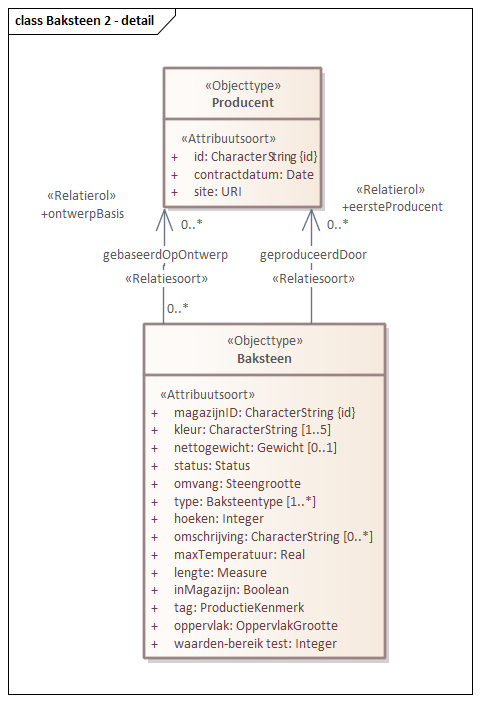
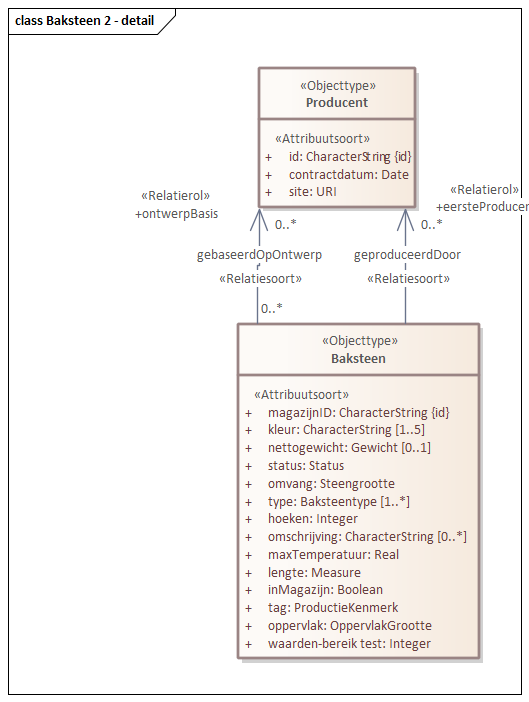
MIMCM-Bakstenenconceptueelmodel-1.0.0-2-20130318-20261017-172123

Changed region(s): [[0.0938, 0.0299, 1.0, 0.9872], [0.0, 0.0, 0.3438, 0.9872]]

diff --git a/data/SAMPLE-cat.respec.full.html b/data/SAMPLE-cat.respec.full.html
@@ -2,7 +2,7 @@
                         var respecConfig = {
                             specStatus: "ED",
                             editors: [{
-                                name: "AdminGeonovum, Geonovum",
+                                name: "unspecified, Geonovum",
                                 url: "http://your.site/",
                             }],
                             edDraftURI: "http://some.place",
@@ -17,7 +17,7 @@
                             Status van dit document ...HIER INVOEGEN
                         </p></section><section id="prologue" class="informative" level="1"><h1>Proloog</h1><p>
                             Introductie ...HIER INVOEGEN
-                        </p></section><section id="cat" class="normative"><h2>Gegevensdefinitie</h2><!--MIMLM-Bakstenenconceptueelmodel-1.0.0-2-20130318-20261003-111207 imvertor Nightly-build.0--><section id="global_packages"><h3>Model   Bakstenen conceptueel model</h3><section id="EAID_08513AA0_8A50_46c1_AD86_9B80D9A6AAE1"><h4>   Model 3 - overzicht</h4><div class="imageinfo overview"><figure class="uml-diagram"><img id="img-EAID_08513AA0_8A50_46c1_AD86_9B80D9A6AAE1" src="data/Images/EAID_08513AA0_8A50_46c1_AD86_9B80D9A6AAE1.png" usemap="#imagemap-EAID_08513AA0_8A50_46c1_AD86_9B80D9A6AAE1" alt="Diagram: Uitleg van dit diagram &#34;Model 3&#34;."><figcaption> ‒ Diagram: Model 3</figcaption></figure><map name="imagemap-EAID_08513AA0_8A50_46c1_AD86_9B80D9A6AAE1"><area shape="rect" alt="Accountmanager" coords="1101,387,1307,527" href="#global_class_Contract_Accountmanager"><area shape="rect" alt="ExterneProducent" coords="540,360,725,428" href="#global_class_Baksteenproductie_ExterneProducent"><area shape="rect" alt="Baksteen" coords="48,86,326,305" href="#global_class_Baksteenproductie_Baksteen"><area shape="rect" alt="Producent" coords="540,100,725,298" href="#global_class_Baksteenproductie_Producent"><area shape="rect" alt="Deal" coords="1088,86,1300,181" href="#global_class_Contract_Deal"><area shape="rect" alt="Contract" coords="1348,250,1532,332" href="#global_class_Contract_Contract"><area shape="rect" alt="Client" coords="828,223,1070,319" href="#global_class_Contract_Client"></map><p>
+                        </p></section><section id="cat" class="normative"><h2>Gegevensdefinitie</h2><!--MIMCM-Bakstenenconceptueelmodel-1.0.0-2-20130318-20261017-172123 imvertor Nightly-build.0--><section id="global_packages"><h3>Model   Bakstenen conceptueel model</h3><section id="EAID_08513AA0_8A50_46c1_AD86_9B80D9A6AAE1"><h4>   Model 3 - overzicht</h4><div class="imageinfo overview"><figure class="uml-diagram"><img id="img-EAID_08513AA0_8A50_46c1_AD86_9B80D9A6AAE1" src="data/Images/EAID_08513AA0_8A50_46c1_AD86_9B80D9A6AAE1.png" usemap="#imagemap-EAID_08513AA0_8A50_46c1_AD86_9B80D9A6AAE1" alt="Diagram: Uitleg van dit diagram &#34;Model 3&#34;."><figcaption> ‒ Diagram: Model 3</figcaption></figure><map name="imagemap-EAID_08513AA0_8A50_46c1_AD86_9B80D9A6AAE1"><area shape="rect" alt="Accountmanager" coords="1101,395,1307,535" href="#global_class_Contract_Accountmanager"><area shape="rect" alt="ExterneProducent" coords="540,368,725,436" href="#global_class_Baksteenproductie_ExterneProducent"><area shape="rect" alt="Baksteen" coords="48,94,326,313" href="#global_class_Baksteenproductie_Baksteen"><area shape="rect" alt="Producent" coords="540,108,725,306" href="#global_class_Baksteenproductie_Producent"><area shape="rect" alt="Deal" coords="1088,94,1300,189" href="#global_class_Contract_Deal"><area shape="rect" alt="Contract" coords="1348,259,1532,341" href="#global_class_Contract_Contract"><area shape="rect" alt="Client" coords="828,231,1070,327" href="#global_class_Contract_Client"></map><p>
                         <p>Uitleg van dit diagram "<i>Model 3</i>".</p>
                         <p></p>
                         <p></p>
@@ -27,7 +27,7 @@
                         <p></p>
                      </p></div></section><section><h4>Objecttypen   </h4>
             <section id="global_class_Baksteenproductie_Baksteen"><h5>   Baksteen</h5>
-               <section id="EAID_EB759E5B_3FAA_4064_A73E_704926072F89"><h6>   Baksteen 2 - detail</h6><div class="imageinfo "><figure class="uml-diagram"><img id="img-EAID_EB759E5B_3FAA_4064_A73E_704926072F89" src="data/Images/EAID_EB759E5B_3FAA_4064_A73E_704926072F89.png" usemap="#imagemap-EAID_EB759E5B_3FAA_4064_A73E_704926072F89" alt="Diagram: Uitleg van dit diagram &#34;Baksteen 2&#34;."><figcaption> ‒ Diagram: Baksteen 2</figcaption></figure><map name="imagemap-EAID_EB759E5B_3FAA_4064_A73E_704926072F89"><area shape="rect" alt="Producent" coords="164,68,322,208" href="#global_class_Baksteenproductie_Producent"><area shape="rect" alt="Baksteen" coords="144,324,386,659" href="#global_class_Baksteenproductie_Baksteen"></map><p>
+               <section id="EAID_EB759E5B_3FAA_4064_A73E_704926072F89"><h6>   Baksteen 2 - detail</h6><div class="imageinfo "><figure class="uml-diagram"><img id="img-EAID_EB759E5B_3FAA_4064_A73E_704926072F89" src="data/Images/EAID_EB759E5B_3FAA_4064_A73E_704926072F89.png" usemap="#imagemap-EAID_EB759E5B_3FAA_4064_A73E_704926072F89" alt="Diagram: Uitleg van dit diagram &#34;Baksteen 2&#34;."><figcaption> ‒ Diagram: Baksteen 2</figcaption></figure><map name="imagemap-EAID_EB759E5B_3FAA_4064_A73E_704926072F89"><area shape="rect" alt="Producent" coords="259,68,416,208" href="#global_class_Baksteenproductie_Producent"><area shape="rect" alt="Baksteen" coords="238,324,480,659" href="#global_class_Baksteenproductie_Baksteen"></map><p>
                               <p>Uitleg van dit diagram "<i>Baksteen 2</i>".</p>
                               <p></p>
                               <p></p>
@@ -73,7 +73,7 @@
                         </td></tr></tbody></table>
                
                <h6>Overzicht constraints  </h6>
-                  <table style="width: 100%;"><colgroup style="width: 30%;"></colgroup><colgroup style="width: 70%;"></colgroup><tbody><tr><th scope="col">Naam</th><th scope="col">Uitleg</th></tr><tr><th scope="row"><a class="link" href="#detail_d22357e2583">
+                  <table style="width: 100%;"><colgroup style="width: 30%;"></colgroup><colgroup style="width: 70%;"></colgroup><tbody><tr><th scope="col">Naam</th><th scope="col">Uitleg</th></tr><tr><th scope="row"><a class="link" href="#detail_d22351e2583">
                               baksteen-constraint
                            </a></th><td></td></tr></tbody></table>
                
@@ -280,7 +280,7 @@
                                     <p>De eerste producent is de maker die als eerste met de baksteen op de markt is gekomen, en de steen nog levert.</p>
                                  </td></tr><tr><th scope="row">Herkomst definitie</th><td> </td></tr><tr><th scope="row">Datum opname</th><td> </td></tr><tr><th scope="row">Gerelateerd objecttype</th><td><a class="link" href="#global_class_Baksteenproductie_Producent">Producent</a></td></tr><tr><th scope="row">Kardinaliteit</th><td>0 .. *</td></tr><tr><th scope="row">Indicatie kardinaliteit bron</th><td>1</td></tr><tr><th scope="row">Indicatie authentiek</th><td>  </td></tr><tr><th scope="row">Mogelijk geen waarde</th><td>Nee</td></tr></tbody></table>
                   </div>
-                  <div class="deepheader" id="detail_d22357e2583"><strong>Constraint details  <a href="#global_class_Baksteenproductie_Baksteen">Baksteen</a> baksteen-constraint</strong>
+                  <div class="deepheader" id="detail_d22351e2583"><strong>Constraint details  <a href="#global_class_Baksteenproductie_Baksteen">Baksteen</a> baksteen-constraint</strong>
                      <table style="width: 100%;"><colgroup style="width: 30%;"></colgroup><colgroup style="width: 70%;"></colgroup><tbody><tr><th scope="row">OCL</th><td>Constraint op objecttype Baksteen.</td></tr></tbody></table>
                   </div>
                </section>
@@ -393,7 +393,7 @@
                   <table style="width: 100%;"><colgroup style="width: 50%;"></colgroup><colgroup style="width: 50%;"></colgroup><tbody><tr><th scope="col">Rol naam met kardinaliteiten</th><th scope="col">Definitie</th></tr><tr><td>Contract [ 1 ] <a class="link" href="#detail_association_Contract_Contract_adres2rol">adres1relatie: adres2rol</a> <a class="link" href="#global_class_Contract_Adres">Adres</a> [ 1 ]</td><td></td></tr></tbody></table>
                
                <h6>Overzicht constraints  </h6>
-                  <table style="width: 100%;"><colgroup style="width: 30%;"></colgroup><colgroup style="width: 70%;"></colgroup><tbody><tr><th scope="col">Naam</th><th scope="col">Uitleg</th></tr><tr><th scope="row"><a class="link" href="#detail_d22357e6543">
+                  <table style="width: 100%;"><colgroup style="width: 30%;"></colgroup><colgroup style="width: 70%;"></colgroup><tbody><tr><th scope="col">Naam</th><th scope="col">Uitleg</th></tr><tr><th scope="row"><a class="link" href="#detail_d22351e6543">
                               constraint1
                            </a></th><td> commentaar </td></tr></tbody></table>
                
@@ -423,7 +423,7 @@
                         </td><td>DAY</td><td>1</td></tr></tbody></table>
                
                <h6>Overzicht constraints  </h6>
-                  <table style="width: 100%;"><colgroup style="width: 30%;"></colgroup><colgroup style="width: 70%;"></colgroup><tbody><tr><th scope="col">Naam</th><th scope="col">Uitleg</th></tr><tr><th scope="row"><a class="link" href="#detail_d22357e7087">
+                  <table style="width: 100%;"><colgroup style="width: 30%;"></colgroup><colgroup style="width: 70%;"></colgroup><tbody><tr><th scope="col">Naam</th><th scope="col">Uitleg</th></tr><tr><th scope="row"><a class="link" href="#detail_d22351e7087">
                               constraint-relatieklasse
                            </a></th><td></td></tr></tbody></table>
                
@@ -449,7 +449,7 @@
                   <table style="width: 100%;"><colgroup style="width: 50%;"></colgroup><colgroup style="width: 50%;"></colgroup><tbody><tr><th scope="col">Rol naam met kardinaliteiten</th><th scope="col">Definitie</th></tr><tr><td>Accountmanager [ 1 ] <a class="link" href="#detail_association_Contract_Accountmanager_adres2rol">adres2relatie: adres2rol</a> <a class="link" href="#global_class_Contract_Adres">Adres</a> [ 1 ]</td><td></td></tr></tbody></table>
                
                <h6>Overzicht constraints  </h6>
-                  <table style="width: 100%;"><colgroup style="width: 30%;"></colgroup><colgroup style="width: 70%;"></colgroup><tbody><tr><th scope="col">Naam</th><th scope="col">Uitleg</th></tr><tr><th scope="row"><a class="link" href="#detail_d22357e5644">
+                  <table style="width: 100%;"><colgroup style="width: 30%;"></colgroup><colgroup style="width: 70%;"></colgroup><tbody><tr><th scope="col">Naam</th><th scope="col">Uitleg</th></tr><tr><th scope="row"><a class="link" href="#detail_d22351e5644">
                               Gegevensgroeptype-constraint
                            </a></th><td></td></tr></tbody></table>
                
@@ -477,7 +477,7 @@
                      
                      <table style="width: 100%;"><colgroup style="width: 30%;"></colgroup><colgroup style="width: 70%;"></colgroup><tbody><tr><th scope="row">Naam</th><td>adres1relatie</td></tr><tr><th scope="row">Herkomst</th><td> </td></tr><tr><th scope="row">Definitie</th><td> </td></tr><tr><th scope="row">Herkomst definitie</th><td> </td></tr><tr><th scope="row">Datum opname</th><td> </td></tr><tr><th scope="row">Gerelateerd objecttype</th><td><a class="link" href="#global_class_Contract_Adres">Adres</a></td></tr><tr><th scope="row">Kardinaliteit</th><td>1</td></tr><tr><th scope="row">Indicatie kardinaliteit bron</th><td>1</td></tr><tr><th scope="row">Indicatie authentiek</th><td>Authentiek</td></tr><tr><th scope="row">Mogelijk geen waarde</th><td>Nee</td></tr></tbody></table>
                   </div>
-                  <div class="deepheader" id="detail_d22357e6543"><strong>Constraint details  <a href="#global_class_Contract_Contract">Contract</a> constraint1</strong>
+                  <div class="deepheader" id="detail_d22351e6543"><strong>Constraint details  <a href="#global_class_Contract_Contract">Contract</a> constraint1</strong>
                      <table style="width: 100%;"><colgroup style="width: 30%;"></colgroup><colgroup style="width: 70%;"></colgroup><tbody><tr><th scope="row">Natuurlijke taal</th><td> commentaar </td></tr><tr><th scope="row">OCL</th><td> OCL of beschrijving van constraint1</td></tr></tbody></table>
                   </div>
                </section>
@@ -499,7 +499,7 @@
                      
                      <table style="width: 100%;"><colgroup style="width: 30%;"></colgroup><colgroup style="width: 70%;"></colgroup><tbody><tr><th scope="row">Naam</th><td>adres2relatie</td></tr><tr><th scope="row">Herkomst</th><td> </td></tr><tr><th scope="row">Definitie</th><td> </td></tr><tr><th scope="row">Herkomst definitie</th><td> </td></tr><tr><th scope="row">Datum opname</th><td> </td></tr><tr><th scope="row">Gerelateerd objecttype</th><td><a class="link" href="#global_class_Contract_Adres">Adres</a></td></tr><tr><th scope="row">Kardinaliteit</th><td>1</td></tr><tr><th scope="row">Indicatie kardinaliteit bron</th><td>1</td></tr><tr><th scope="row">Indicatie authentiek</th><td>Authentiek</td></tr><tr><th scope="row">Mogelijk geen waarde</th><td>Nee</td></tr></tbody></table>
                   </div>
-                  <div class="deepheader" id="detail_d22357e5644"><strong>Constraint details  <a href="#global_class_Contract_Accountmanager">Accountmanager</a> Gegevensgroeptype-constraint</strong>
+                  <div class="deepheader" id="detail_d22351e5644"><strong>Constraint details  <a href="#global_class_Contract_Accountmanager">Accountmanager</a> Gegevensgroeptype-constraint</strong>
                      <table style="width: 100%;"><colgroup style="width: 30%;"></colgroup><colgroup style="width: 70%;"></colgroup><tbody><tr><th scope="row">OCL</th><td>Constraint op gegevesngroeptype Accountmanager.</td></tr></tbody></table>
                   </div>
                </section>
@@ -526,7 +526,7 @@
                                     <p>De eerstvolgende dag dat voor de client een feest is.</p>
                                  </td></tr><tr><th scope="row">Herkomst definitie</th><td> </td></tr><tr><th scope="row">Datum opname</th><td> </td></tr><tr><th scope="row">Formaat</th><td>DAY</td></tr><tr><th scope="row">Patroon</th><td>De verzameling van waarden die gegevens van deze attribuutsoort kunnen hebben (bereik)  danwel moeten voldoen aan een specifiek patroon.</td></tr><tr><th scope="row">Kardinaliteit</th><td>1</td></tr><tr><th scope="row">Indicatie authentiek</th><td>  </td></tr><tr><th scope="row">Toelichting</th><td>Een inhoudelijke toelichting op de attribuutsoort.</td></tr><tr><th scope="row">Indicatie afleidbaar</th><td>Zie package</td></tr><tr><th scope="row">Indicatie classificerend</th><td> </td></tr><tr><th scope="row">Mogelijk geen waarde</th><td>Nee</td></tr><tr><th scope="row">Indicatie identificerend</th><td>Nee</td></tr></tbody></table>
                   </div>
-                  <div class="deepheader" id="detail_d22357e7087"><strong>Constraint details  <a href="#global_class_Contract_Deal">Deal</a> constraint-relatieklasse</strong>
+                  <div class="deepheader" id="detail_d22351e7087"><strong>Constraint details  <a href="#global_class_Contract_Deal">Deal</a> constraint-relatieklasse</strong>
                      <table style="width: 100%;"><colgroup style="width: 30%;"></colgroup><colgroup style="width: 70%;"></colgroup><tbody><tr><th scope="row">OCL</th><td>Constraint op relatieklasse Deal.</td></tr></tbody></table>
                   </div>
                </section>
@@ -534,7 +534,7 @@
             
             
             
-         </section></section></section><section id="lis" class="normative"><h2>Inhoud van waardelijsten</h2><!--MIMLM-Bakstenenconceptueelmodel-1.0.0-2-20130318-20261003-111207 imvertor Nightly-build.0--><section><h3>Referentielijst inhoud   </h3><section id="detail_class_Baksteenproductie_Baksteentype"><h4>Referentielijst  Baksteentype</h4>
+         </section></section></section><section id="lis" class="normative"><h2>Inhoud van waardelijsten</h2><!--MIMCM-Bakstenenconceptueelmodel-1.0.0-2-20130318-20261017-172123 imvertor Nightly-build.0--><section><h3>Referentielijst inhoud   </h3><section id="detail_class_Baksteenproductie_Baksteentype"><h4>Referentielijst  Baksteentype</h4>
             <table style="width: 100%;" class="list"><colgroup></colgroup><tbody><tr><td>
                         <p>Type van baksteen.</p>
                       

diff --git a/data/SAMPLE-cat.respec.html b/data/SAMPLE-cat.respec.html
@@ -1,4 +1,4 @@
-<!DOCTYPE HTML><section id="cat" class="normative"><h2>Gegevensdefinitie</h2><!--MIMLM-Bakstenenconceptueelmodel-1.0.0-2-20130318-20261003-111207 imvertor Nightly-build.0--><section id="global_packages"><h3>Model   Bakstenen conceptueel model</h3><section id="EAID_08513AA0_8A50_46c1_AD86_9B80D9A6AAE1"><h4>   Model 3 - overzicht</h4><div class="imageinfo overview"><figure class="uml-diagram"><img id="img-EAID_08513AA0_8A50_46c1_AD86_9B80D9A6AAE1" src="data/Images/EAID_08513AA0_8A50_46c1_AD86_9B80D9A6AAE1.png" usemap="#imagemap-EAID_08513AA0_8A50_46c1_AD86_9B80D9A6AAE1" alt="Diagram: Uitleg van dit diagram &#34;Model 3&#34;."><figcaption> ‒ Diagram: Model 3</figcaption></figure><map name="imagemap-EAID_08513AA0_8A50_46c1_AD86_9B80D9A6AAE1"><area shape="rect" alt="Accountmanager" coords="1101,387,1307,527" href="#global_class_Contract_Accountmanager"><area shape="rect" alt="ExterneProducent" coords="540,360,725,428" href="#global_class_Baksteenproductie_ExterneProducent"><area shape="rect" alt="Baksteen" coords="48,86,326,305" href="#global_class_Baksteenproductie_Baksteen"><area shape="rect" alt="Producent" coords="540,100,725,298" href="#global_class_Baksteenproductie_Producent"><area shape="rect" alt="Deal" coords="1088,86,1300,181" href="#global_class_Contract_Deal"><area shape="rect" alt="Contract" coords="1348,250,1532,332" href="#global_class_Contract_Contract"><area shape="rect" alt="Client" coords="828,223,1070,319" href="#global_class_Contract_Client"></map><p>
+<!DOCTYPE HTML><section id="cat" class="normative"><h2>Gegevensdefinitie</h2><!--MIMCM-Bakstenenconceptueelmodel-1.0.0-2-20130318-20261017-172123 imvertor Nightly-build.0--><section id="global_packages"><h3>Model   Bakstenen conceptueel model</h3><section id="EAID_08513AA0_8A50_46c1_AD86_9B80D9A6AAE1"><h4>   Model 3 - overzicht</h4><div class="imageinfo overview"><figure class="uml-diagram"><img id="img-EAID_08513AA0_8A50_46c1_AD86_9B80D9A6AAE1" src="data/Images/EAID_08513AA0_8A50_46c1_AD86_9B80D9A6AAE1.png" usemap="#imagemap-EAID_08513AA0_8A50_46c1_AD86_9B80D9A6AAE1" alt="Diagram: Uitleg van dit diagram &#34;Model 3&#34;."><figcaption> ‒ Diagram: Model 3</figcaption></figure><map name="imagemap-EAID_08513AA0_8A50_46c1_AD86_9B80D9A6AAE1"><area shape="rect" alt="Accountmanager" coords="1101,395,1307,535" href="#global_class_Contract_Accountmanager"><area shape="rect" alt="ExterneProducent" coords="540,368,725,436" href="#global_class_Baksteenproductie_ExterneProducent"><area shape="rect" alt="Baksteen" coords="48,94,326,313" href="#global_class_Baksteenproductie_Baksteen"><area shape="rect" alt="Producent" coords="540,108,725,306" href="#global_class_Baksteenproductie_Producent"><area shape="rect" alt="Deal" coords="1088,94,1300,189" href="#global_class_Contract_Deal"><area shape="rect" alt="Contract" coords="1348,259,1532,341" href="#global_class_Contract_Contract"><area shape="rect" alt="Client" coords="828,231,1070,327" href="#global_class_Contract_Client"></map><p>
                         <p>Uitleg van dit diagram "<i>Model 3</i>".</p>
                         <p></p>
                         <p></p>
@@ -8,7 +8,7 @@
                         <p></p>
                      </p></div></section><section><h4>Objecttypen   </h4>
             <section id="global_class_Baksteenproductie_Baksteen"><h5>   Baksteen</h5>
-               <section id="EAID_EB759E5B_3FAA_4064_A73E_704926072F89"><h6>   Baksteen 2 - detail</h6><div class="imageinfo "><figure class="uml-diagram"><img id="img-EAID_EB759E5B_3FAA_4064_A73E_704926072F89" src="data/Images/EAID_EB759E5B_3FAA_4064_A73E_704926072F89.png" usemap="#imagemap-EAID_EB759E5B_3FAA_4064_A73E_704926072F89" alt="Diagram: Uitleg van dit diagram &#34;Baksteen 2&#34;."><figcaption> ‒ Diagram: Baksteen 2</figcaption></figure><map name="imagemap-EAID_EB759E5B_3FAA_4064_A73E_704926072F89"><area shape="rect" alt="Producent" coords="164,68,322,208" href="#global_class_Baksteenproductie_Producent"><area shape="rect" alt="Baksteen" coords="144,324,386,659" href="#global_class_Baksteenproductie_Baksteen"></map><p>
+               <section id="EAID_EB759E5B_3FAA_4064_A73E_704926072F89"><h6>   Baksteen 2 - detail</h6><div class="imageinfo "><figure class="uml-diagram"><img id="img-EAID_EB759E5B_3FAA_4064_A73E_704926072F89" src="data/Images/EAID_EB759E5B_3FAA_4064_A73E_704926072F89.png" usemap="#imagemap-EAID_EB759E5B_3FAA_4064_A73E_704926072F89" alt="Diagram: Uitleg van dit diagram &#34;Baksteen 2&#34;."><figcaption> ‒ Diagram: Baksteen 2</figcaption></figure><map name="imagemap-EAID_EB759E5B_3FAA_4064_A73E_704926072F89"><area shape="rect" alt="Producent" coords="259,68,416,208" href="#global_class_Baksteenproductie_Producent"><area shape="rect" alt="Baksteen" coords="238,324,480,659" href="#global_class_Baksteenproductie_Baksteen"></map><p>
                               <p>Uitleg van dit diagram "<i>Baksteen 2</i>".</p>
                               <p></p>
                               <p></p>
@@ -54,7 +54,7 @@
                         </td></tr></tbody></table>
                
                <h6>Overzicht constraints  </h6>
-                  <table style="width: 100%;"><colgroup style="width: 30%;"></colgroup><colgroup style="width: 70%;"></colgroup><tbody><tr><th scope="col">Naam</th><th scope="col">Uitleg</th></tr><tr><th scope="row"><a class="link" href="#detail_d22357e2583">
+                  <table style="width: 100%;"><colgroup style="width: 30%;"></colgroup><colgroup style="width: 70%;"></colgroup><tbody><tr><th scope="col">Naam</th><th scope="col">Uitleg</th></tr><tr><th scope="row"><a class="link" href="#detail_d22351e2583">
                               baksteen-constraint
                            </a></th><td></td></tr></tbody></table>
                
@@ -261,7 +261,7 @@
                                     <p>De eerste producent is de maker die als eerste met de baksteen op de markt is gekomen, en de steen nog levert.</p>
                                  </td></tr><tr><th scope="row">Herkomst definitie</th><td> </td></tr><tr><th scope="row">Datum opname</th><td> </td></tr><tr><th scope="row">Gerelateerd objecttype</th><td><a class="link" href="#global_class_Baksteenproductie_Producent">Producent</a></td></tr><tr><th scope="row">Kardinaliteit</th><td>0 .. *</td></tr><tr><th scope="row">Indicatie kardinaliteit bron</th><td>1</td></tr><tr><th scope="row">Indicatie authentiek</th><td>  </td></tr><tr><th scope="row">Mogelijk geen waarde</th><td>Nee</td></tr></tbody></table>
                   </div>
-                  <div class="deepheader" id="detail_d22357e2583"><strong>Constraint details  <a href="#global_class_Baksteenproductie_Baksteen">Baksteen</a> baksteen-constraint</strong>
+                  <div class="deepheader" id="detail_d22351e2583"><strong>Constraint details  <a href="#global_class_Baksteenproductie_Baksteen">Baksteen</a> baksteen-constraint</strong>
                      <table style="width: 100%;"><colgroup style="width: 30%;"></colgroup><colgroup style="width: 70%;"></colgroup><tbody><tr><th scope="row">OCL</th><td>Constraint op objecttype Baksteen.</td></tr></tbody></table>
                   </div>
                </section>
@@ -374,7 +374,7 @@
                   <table style="width: 100%;"><colgroup style="width: 50%;"></colgroup><colgroup style="width: 50%;"></colgroup><tbody><tr><th scope="col">Rol naam met kardinaliteiten</th><th scope="col">Definitie</th></tr><tr><td>Contract [ 1 ] <a class="link" href="#detail_association_Contract_Contract_adres2rol">adres1relatie: adres2rol</a> <a class="link" href="#global_class_Contract_Adres">Adres</a> [ 1 ]</td><td></td></tr></tbody></table>
                
                <h6>Overzicht constraints  </h6>
-                  <table style="width: 100%;"><colgroup style="width: 30%;"></colgroup><colgroup style="width: 70%;"></colgroup><tbody><tr><th scope="col">Naam</th><th scope="col">Uitleg</th></tr><tr><th scope="row"><a class="link" href="#detail_d22357e6543">
+                  <table style="width: 100%;"><colgroup style="width: 30%;"></colgroup><colgroup style="width: 70%;"></colgroup><tbody><tr><th scope="col">Naam</th><th scope="col">Uitleg</th></tr><tr><th scope="row"><a class="link" href="#detail_d22351e6543">
                               constraint1
                            </a></th><td> commentaar </td></tr></tbody></table>
                
@@ -404,7 +404,7 @@
                         </td><td>DAY</td><td>1</td></tr></tbody></table>
                
                <h6>Overzicht constraints  </h6>
-                  <table style="width: 100%;"><colgroup style="width: 30%;"></colgroup><colgroup style="width: 70%;"></colgroup><tbody><tr><th scope="col">Naam</th><th scope="col">Uitleg</th></tr><tr><th scope="row"><a class="link" href="#detail_d22357e7087">
+                  <table style="width: 100%;"><colgroup style="width: 30%;"></colgroup><colgroup style="width: 70%;"></colgroup><tbody><tr><th scope="col">Naam</th><th scope="col">Uitleg</th></tr><tr><th scope="row"><a class="link" href="#detail_d22351e7087">
                               constraint-relatieklasse
                            </a></th><td></td></tr></tbody></table>
                
@@ -430,7 +430,7 @@
                   <table style="width: 100%;"><colgroup style="width: 50%;"></colgroup><colgroup style="width: 50%;"></colgroup><tbody><tr><th scope="col">Rol naam met kardinaliteiten</th><th scope="col">Definitie</th></tr><tr><td>Accountmanager [ 1 ] <a class="link" href="#detail_association_Contract_Accountmanager_adres2rol">adres2relatie: adres2rol</a> <a class="link" href="#global_class_Contract_Adres">Adres</a> [ 1 ]</td><td></td></tr></tbody></table>
                
                <h6>Overzicht constraints  </h6>
-                  <table style="width: 100%;"><colgroup style="width: 30%;"></colgroup><colgroup style="width: 70%;"></colgroup><tbody><tr><th scope="col">Naam</th><th scope="col">Uitleg</th></tr><tr><th scope="row"><a class="link" href="#detail_d22357e5644">
+                  <table style="width: 100%;"><colgroup style="width: 30%;"></colgroup><colgroup style="width: 70%;"></colgroup><tbody><tr><th scope="col">Naam</th><th scope="col">Uitleg</th></tr><tr><th scope="row"><a class="link" href="#detail_d22351e5644">
                               Gegevensgroeptype-constraint
                            </a></th><td></td></tr></tbody></table>
                
@@ -458,7 +458,7 @@
                      
                      <table style="width: 100%;"><colgroup style="width: 30%;"></colgroup><colgroup style="width: 70%;"></colgroup><tbody><tr><th scope="row">Naam</th><td>adres1relatie</td></tr><tr><th scope="row">Herkomst</th><td> </td></tr><tr><th scope="row">Definitie</th><td> </td></tr><tr><th scope="row">Herkomst definitie</th><td> </td></tr><tr><th scope="row">Datum opname</th><td> </td></tr><tr><th scope="row">Gerelateerd objecttype</th><td><a class="link" href="#global_class_Contract_Adres">Adres</a></td></tr><tr><th scope="row">Kardinaliteit</th><td>1</td></tr><tr><th scope="row">Indicatie kardinaliteit bron</th><td>1</td></tr><tr><th scope="row">Indicatie authentiek</th><td>Authentiek</td></tr><tr><th scope="row">Mogelijk geen waarde</th><td>Nee</td></tr></tbody></table>
                   </div>
-                  <div class="deepheader" id="detail_d22357e6543"><strong>Constraint details  <a href="#global_class_Contract_Contract">Contract</a> constraint1</strong>
+                  <div class="deepheader" id="detail_d22351e6543"><strong>Constraint details  <a href="#global_class_Contract_Contract">Contract</a> constraint1</strong>
                      <table style="width: 100%;"><colgroup style="width: 30%;"></colgroup><colgroup style="width: 70%;"></colgroup><tbody><tr><th scope="row">Natuurlijke taal</th><td> commentaar </td></tr><tr><th scope="row">OCL</th><td> OCL of beschrijving van constraint1</td></tr></tbody></table>
                   </div>
                </section>
@@ -480,7 +480,7 @@
                      
                      <table style="width: 100%;"><colgroup style="width: 30%;"></colgroup><colgroup style="width: 70%;"></colgroup><tbody><tr><th scope="row">Naam</th><td>adres2relatie</td></tr><tr><th scope="row">Herkomst</th><td> </td></tr><tr><th scope="row">Definitie</th><td> </td></tr><tr><th scope="row">Herkomst definitie</th><td> </td></tr><tr><th scope="row">Datum opname</th><td> </td></tr><tr><th scope="row">Gerelateerd objecttype</th><td><a class="link" href="#global_class_Contract_Adres">Adres</a></td></tr><tr><th scope="row">Kardinaliteit</th><td>1</td></tr><tr><th scope="row">Indicatie kardinaliteit bron</th><td>1</td></tr><tr><th scope="row">Indicatie authentiek</th><td>Authentiek</td></tr><tr><th scope="row">Mogelijk geen waarde</th><td>Nee</td></tr></tbody></table>
                   </div>
-                  <div class="deepheader" id="detail_d22357e5644"><strong>Constraint details  <a href="#global_class_Contract_Accountmanager">Accountmanager</a> Gegevensgroeptype-constraint</strong>
+                  <div class="deepheader" id="detail_d22351e5644"><strong>Constraint details  <a href="#global_class_Contract_Accountmanager">Accountmanager</a> Gegevensgroeptype-constraint</strong>
                      <table style="width: 100%;"><colgroup style="width: 30%;"></colgroup><colgroup style="width: 70%;"></colgroup><tbody><tr><th scope="row">OCL</th><td>Constraint op gegevesngroeptype Accountmanager.</td></tr></tbody></table>
                   </div>
                </section>
@@ -507,7 +507,7 @@
                                     <p>De eerstvolgende dag dat voor de client een feest is.</p>
                                  </td></tr><tr><th scope="row">Herkomst definitie</th><td> </td></tr><tr><th scope="row">Datum opname</th><td> </td></tr><tr><th scope="row">Formaat</th><td>DAY</td></tr><tr><th scope="row">Patroon</th><td>De verzameling van waarden die gegevens van deze attribuutsoort kunnen hebben (bereik)  danwel moeten voldoen aan een specifiek patroon.</td></tr><tr><th scope="row">Kardinaliteit</th><td>1</td></tr><tr><th scope="row">Indicatie authentiek</th><td>  </td></tr><tr><th scope="row">Toelichting</th><td>Een inhoudelijke toelichting op de attribuutsoort.</td></tr><tr><th scope="row">Indicatie afleidbaar</th><td>Zie package</td></tr><tr><th scope="row">Indicatie classificerend</th><td> </td></tr><tr><th scope="row">Mogelijk geen waarde</th><td>Nee</td></tr><tr><th scope="row">Indicatie identificerend</th><td>Nee</td></tr></tbody></table>
                   </div>
-                  <div class="deepheader" id="detail_d22357e7087"><strong>Constraint details  <a href="#global_class_Contract_Deal">Deal</a> constraint-relatieklasse</strong>
+                  <div class="deepheader" id="detail_d22351e7087"><strong>Constraint details  <a href="#global_class_Contract_Deal">Deal</a> constraint-relatieklasse</strong>
                      <table style="width: 100%;"><colgroup style="width: 30%;"></colgroup><colgroup style="width: 70%;"></colgroup><tbody><tr><th scope="row">OCL</th><td>Constraint op relatieklasse Deal.</td></tr></tbody></table>
                   </div>
                </section>
@@ -515,7 +515,7 @@
             
             
             
-         </section></section></section><section id="lis" class="normative"><h2>Inhoud van waardelijsten</h2><!--MIMLM-Bakstenenconceptueelmodel-1.0.0-2-20130318-20261003-111207 imvertor Nightly-build.0--><section><h3>Referentielijst inhoud   </h3><section id="detail_class_Baksteenproductie_Baksteentype"><h4>Referentielijst  Baksteentype</h4>
+         </section></section></section><section id="lis" class="normative"><h2>Inhoud van waardelijsten</h2><!--MIMCM-Bakstenenconceptueelmodel-1.0.0-2-20130318-20261017-172123 imvertor Nightly-build.0--><section><h3>Referentielijst inhoud   </h3><section id="detail_class_Baksteenproductie_Baksteentype"><h4>Referentielijst  Baksteentype</h4>
             <table style="width: 100%;" class="list"><colgroup></colgroup><tbody><tr><td>
                         <p>Type van baksteen.</p>
                       
